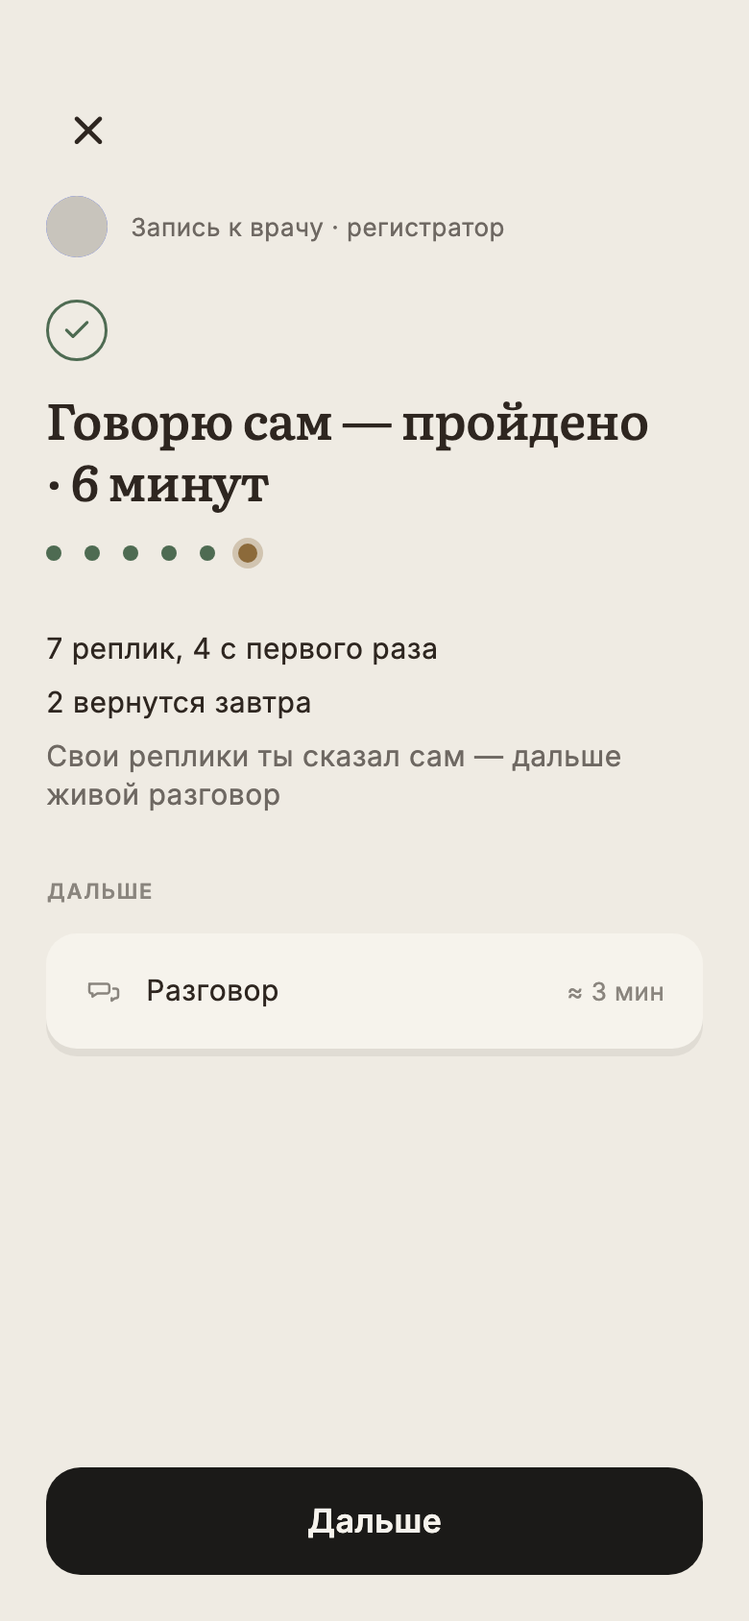
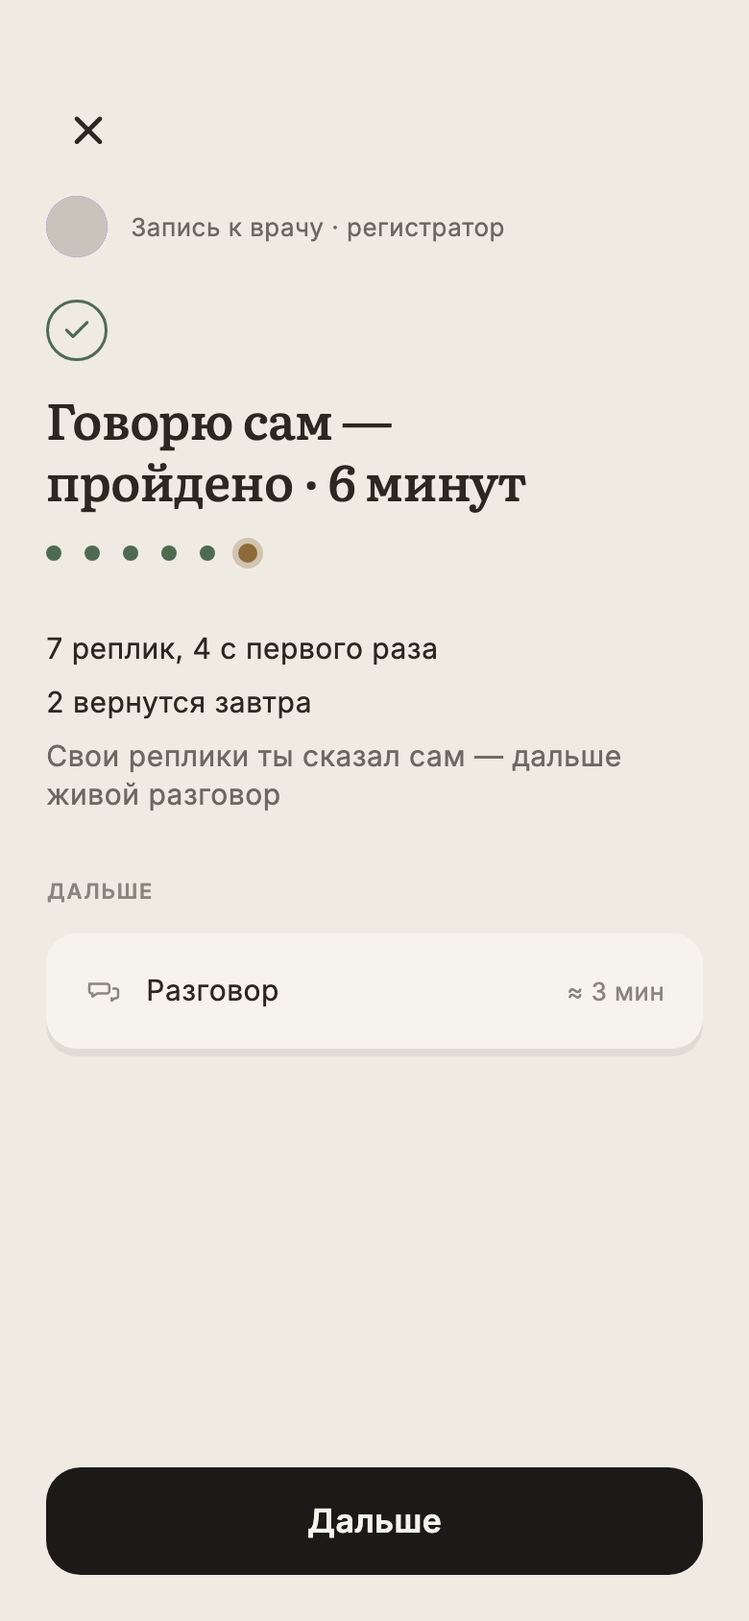
docs(plan): CLIENT-CONV-1c — приёмка третьего захода, две правки, сборка 1.0.0 (19) на телефоне
§1 «Приёмка третьего захода» (код 8629346f): хвост 30-6 неразрывен, перенос
только после тире (запасной перенос перед «·» на экране 320); полоса фото
37-5 — 64 или нет, замер высот (на 874 полосы нет: 390 — с 909, 402 — с 877/887).
§3: кадры 21, 01b (390 × 874), 01c (390 × 909).
§4 пп. 17–18 закрыты решениями архитектора.
§5: BACK-TAILS-2 влит — хвост kServerFixtures; подпись «Без подсказок» на
входе «Вспомнить» говорит про этапы, которых у репетиции нет.
§7: ворота — analyze чистый, 1763 passed; мутация 1/1.
§8: сборка 1.0.0 (19) с 8629346f — Eng Std 1.0.0 (19) на iPhone (Denis).

Changed region(s): [[0.4308, 0.2464, 0.8615, 0.3389], [0.0615, 0.2773, 0.4, 0.3389]]

diff --git a/backend2/docs/research/client-conv-1c/README.md b/backend2/docs/research/client-conv-1c/README.md
@@ -19,6 +19,10 @@
 Что сделано — §1 «Третий заход», кадры — §3 «Третий заход» (только изменённые и новые: 01, 02, 08, 08b, 21, 24, 25,
 31–33), решения и расхождения — §4 пп. 17–22, что за сервером — §5, ворота — §7. Сборка (19) — после приёмки (§8).
 
+**Приёмка третьего захода (22.09): все шесть правок приняты; две однострочные правки перед сборкой** — код и версия
+1.0.0+19 — `8629346f`: хвост 30-6 неразрывен, перенос только после тире; полоса фото 37-5 — 64 или нет (§1 «Приёмка
+третьего захода»). Кадры 21, 01b (874), 01c (909) — §3; §4 пп. 17–18 закрыты решениями; сборка 1.0.0 (19) — §8.
+
 ---
 
 ## §1. Что сделано — по пунктам наряда (код: `4841e49b`; второй заход — `cb17aeaf`; третий — `ecff0259`)
@@ -215,6 +219,31 @@
    первый этап маршрута дня; рядов нет — подсказки нет. «Слова» у дня-сцены, «Повторение» у повторения, «Вспомнить» у
    репетиции. Кадр 33 — `plan_rehearsal`, сегодня день 2 (повторение), кабинет `day-review`.
 
+### Приёмка третьего захода (22.09): две правки перед сборкой (код и версия 1.0.0+19: `8629346f`)
+
+1. **30-6: хвост «пройдено · N минут» неразрывен целиком, перенос только после тире (кадр 21).** Заголовок итога этапа
+   собирает своя строка `planSessionPassedMinutes` — «{title} · {minutes}» с неразрывными пробелами вокруг «·»; внутри
+   «N минут» неразрывный был и раньше (`planMinutesCount`); в заголовках с тире («Слушаю и отвечаю — пройдено», «Говорю
+   сам — пройдено», «Вспомнить — пройдено», ru и en) неразрывный пробел перед «—» держит тире при имени этапа. Итого у
+   заголовка, которому мало строки, единственный перенос — после тире: «Говорю сам — / пройдено · 6 минут», как кадр 31;
+   у заголовка без тире — перед хвостом («Слова / пройдены · 1 минута»). Остальные склейки «·» (бровь окна, строка
+   состояния дня, бровь входа 37-5) не тронуты. **Узкий экран:** на ширине 320 (старый SE или «Увеличенный» вид iPhone)
+   самого хвоста строке мало — «пройдены · 44 минуты» 293 точки при 272 доступных (замер: 90 из 360 сочетаний «этап ×
+   минуты 1…90»), и неразрывную цепочку движок текста режет внутри слова («минут / а»). Там точка уступает:
+   `SessionStageTitle` меряет хвост и, если он шире строки, разрешает перенос перед «·» — число остаётся при точке и
+   своём слове, слово не рвётся. На 390 это не срабатывает никогда (самый широкий хвост — 293 из 342). Тест
+   `stage_title_break_test`: на 390 строки начинаются только с начала и с хвоста (6 этапов × минуты 1, 2, 6, 13, 21, 44),
+   на 320 — перенос только по обычному пробелу и «· N минут» одной строкой; гард `nbsp_numbers_test` — строка
+   `planSessionPassedMinutes` и отсутствие « —» в заголовках, оба `.arb`.
+2. **Вход 37-5: полоса фото — 64 целиком или её нет (кадры 01, 01b, 01c).** `_RenderEntryFit._band`: полоса стоит, когда
+   ей хватает 84 точек (64 и 20 под ней), иначе её нет; сжатия до 24 больше нет. Тест «полоса фото — 64 или нет, на любой
+   высоте»: 390 × 844…960 через 4, оба заголовка — полоса только 0 или 64, переключатель над доком без прокрутки, и на
+   высоком экране она встаёт. **Замер (кадр 01 — заголовок в две строки, шесть фраз):** на 390 × 874 полосы ещё нет —
+   свободно 49 из 84; полоса встаёт с высоты 909 (390 шириной). На ширине 402 (iPhone 17 Pro) заголовок встаёт в одну
+   строку — полоса с 877 при верхнем отступе 52 и с 887 при 62, то есть на самом 402 × 874 её тоже нет (не хватает 3–13
+   точек). Кадр «01 на 874 с полосой» при правиле «64 или нет» поэтому не получается: сняты 01b — 390 × 874, как есть (без
+   полосы, воздух под переключателем), и 01c — 390 × 909, первая высота с полосой 64.
+
 ---
 
 ## §2. Живая проверка (e2e, 22.09): первый заход — сервер main без BACK-TAILS-2
@@ -396,6 +425,8 @@ flutter test test/features/plan/session/conv1c_shots_test.dart --dart-define=CON
 | файл | состояние |
 |---|---|
 | 01-37-5-entry-day | вход дня: «Поговори с регистратором», «Скажи в разговоре» — `targets` фикстуры ветки `day-doctor` |
+| 01b-37-5-entry-day-874 | тот же вход на 390 × 874: полосе фото 64 ещё мало места (49 из 84) — её нет, под переключателем воздух (приёмка третьего захода) |
+| 01c-37-5-entry-day-909 | тот же вход на 390 × 909 — первая высота, где полоса фото стоит целиком, 64 (приёмка третьего захода) |
 | 02-37-5b-entry-rehearsal | вход репетиции: «Разговор целиком · 2 сцены», «Скажи в разговоре» — фикстура `day-rehearsal` |
 | 03-37-6-speaking | роль говорит — текст открыт, волна, полоска «1 из 5» |
 | 04-37-7-your-turn | ждём тапа |
@@ -416,7 +447,7 @@ flutter test test/features/plan/session/conv1c_shots_test.dart --dart-define=CON
 | 18-37-12b-summary-rehearsal | итог репетиции — `conversation-rehearsal-ended` |
 | 19-30-6-words | 30-6 «Слова пройдены» |
 | 20-30-6-dialogue | 30-6 «Диалог пройден» |
-| 21-30-6-speak | 30-6 «Говорю сам — пройдено» |
+| 21-30-6-speak | 30-6 «Говорю сам — / пройдено · 6 минут» — перенос только после тире (приёмка третьего захода) |
 | 22-35-2-miss-chip | 35-2 не зачтено: строка судьи, «услышал», чип сразу |
 | 23-32-1-meaning-selected | 32-1 значение выбрано |
 | 24-35-3-echo-own-line | 35-3 без `partner_line` — своя реплика с переводом |
@@ -434,6 +465,11 @@ flutter test test/features/plan/session/conv1c_shots_test.dart --dart-define=CON
 фраза под кромкой, полосы фото нет (заголовок в две строки, §1 «Третий заход» п. 1); 08 и новый 08b — чип «текст»; 21 —
 заголовок 30-6 теперь переносится перед «·» («Говорю сам — пройдено / · 6 минут», §4 п. 18); 24 и 25 — «bends.» и
 «appointment?» вплотную к плашке; новые 31–33. Их zip — `client-conv-1c-shots-v3.zip` (в сообщении архитектору).
+
+**Приёмка третьего захода** (без zip, только здесь): 21 — «Говорю сам — / пройдено · 6 минут»; 01b — вход на 390 × 874,
+полосы нет; 01c — на 390 × 909, полоса 64. Кадра «01 на 874 с полосой» нет: при правиле «64 или нет» на 874 полосе не
+хватает места ни на 390, ни на 402 шириной (§1 «Приёмка третьего захода» п. 2). Остальные кадры харнесса после правок
+побайтно те же (01 и 02 на 844 полосы не имели и раньше; 31 переносился после тире и до правки).
 
 Живые (`shots/live/`, симулятор, сервер без BACK-TAILS-2): 01 вход без поля `targets` · 02 лента открывается на ответе
 (кадры записи) · 03 ответ врача, «1 из 7» · 04 чип · 05 «Sorry?» · 06 «3 из 7» · 07 лист с галками · 08 конец «5 из 7» ·
@@ -507,11 +543,17 @@ flutter test test/features/plan/session/conv1c_shots_test.dart --dart-define=CON
     полоса важнее видимой строки третьей фразы: кромка в самой строке третьей фразы, а не в её переводе, освобождает ещё
     23 — это полоса 22, тоньше нижней границы 24; чтобы полоса стояла и при двух строках заголовка, пришлось бы сжать и
     отступы блоков (24 → 16 над «Скажи в разговоре» и над «Без подсказок» — ещё 16). Решать архитектору; правка —
-    константы `_TargetsCut.into`, `_RenderEntryFit.photoMin` и отступы там же.
+    константы `_TargetsCut.into`, `_RenderEntryFit.photoMin` и отступы там же. **Решение архитектора 22.09: полоса —
+    64 целиком или её нет, без сжатия; кромка окна и отступы — как есть.** Сделано (`8629346f`, §1 «Приёмка третьего
+    захода» п. 2): на 844 у заголовка в две строки полосы нет, у высокого экрана она встаёт целиком (390 шириной — с 909).
 18. **Перенос перед «·».** Неразрывный пробел после «·» держит точку при числе, поэтому заголовок, которому не хватает
     строки, переносится перед «·»: «Говорю сам — пройдено / · 6 минут» (21; раньше было «пройдено · / 6 минут»). Если нужен
     перенос перед словом состояния («Говорю сам — / пройдено · 6 минут», как у 31) — неразрывный пробел и перед «·» в
     `planWindowJoinNumber` (одна строка `.arb` на язык); тогда «пройдено · 6 минут» не рвётся нигде. Решать архитектору.
+    **Решение архитектора 22.09: хвост «пройдено · N минут» неразрывен целиком, перенос только по тире — «Говорю сам — /
+    пройдено · 6 минут», как 31, у всех этапов с тире.** Сделано своей строкой заголовка 30-6 (`planSessionPassedMinutes`),
+    а не общей склейкой `planWindowJoinNumber`: бровь окна, строка состояния дня и бровь входа 37-5 остались как приняты
+    (`8629346f`, §1 «Приёмка третьего захода» п. 1, с запасным переносом перед «·» на экране 320).
 19. **«не начат» на входе этапа** — кадр 30-1 у текущего ряда до первой карточки пишет «не начат»; по правке 5 ряд
     говорит state сервера — «идёт», как окно дня.
 20. **Вне `.arb` число со словом не склеено:** даты `DateFormat` («19 сентября · пройден» в маршруте) и строки сервера —
@@ -556,6 +598,14 @@ flutter test test/features/plan/session/conv1c_shots_test.dart --dart-define=CON
   сам 6 реплик из 8»), `route_summary`. Клиент печатает серверный текст как пришёл, поэтому правило «число и слово не
   рвутся» (третий заход) на них не распространяется; целое решение — неразрывный пробел в этих строках на сервере (§4
   п. 20).
+- **BACK-TAILS-2 влит в main и выкачен на бой 22.09** (`5d8c37cd` … `f5e13e6c`, в том числе бэкфилл `own_line` старого
+  эха — `0f12e54b`, `1b4e61b5`). Хвост клиента из пункта «Ждёт фикстур» теперь можно закрыть: `kServerFixtures` в
+  `test/support/server_fixtures.dart` — обратно на `../backend2/docs/fixtures`, копии `test/fixtures/server/` снести. В
+  этой правке не делалось (не входило в две правки приёмки) — отдельной строкой ROADMAP-хвостов клиента.
+- **Подпись тумблера «Без подсказок» на входе «Вспомнить»** (кадр 32; приёмка третьего захода, хвостом): под тумблером
+  стоит `planSessionNoHintsSub` — «Диалог и «Говорю сам» — сразу голосом», одна строка на все входы этапов. У репетиции
+  этих этапов нет (её ряды — «Вспомнить» и «Разговор»), и подпись говорит о том, чего в дне нет. Не правилось — решать,
+  что писать на входе репетиции и повторения (своя строка по виду дня или подпись только там, где эти этапы есть).
 - **Карточки, сданные до ветки,** ветка отдаёт с сохранённым payload: у строк «Вспомнить» лишние поля (`filler_index`,
   `frame_ref`, `key`, `step`). Контракт «ровно `{ref, text_target, text_native, audio}`» верен для свежей сдачи; клиент от
   точности не зависит.
@@ -622,6 +672,12 @@ flutter test test/features/plan/session/conv1c_shots_test.dart --dart-define=CON
   `nbsp_numbers_test`; плашка со знаком без ограничения ширины (как было с `Row`) — `session_marked_text_test` «плашка
   длиннее строки» (высота 37 вместо > 51). Свой `RenderBox` переполнения не сообщает, поэтому этот тест — единственный,
   кто ловит второе: тесты 34-3 / 35-4 ловили только переполнение `Row`.
+- **Приёмка третьего захода** — ворота один раз, в конце: `flutter analyze` — **No issues found**; `flutter test` —
+  **1763 passed**, 0 failed, 0 skipped (+7: перенос заголовка 30-6 на 390 и на 320, гард 30-6 в обоих `.arb`, полоса
+  фото на высотах 844…960, кадры 01b и 01c). По ходу — только целевые: `stage_title_break_test`, `nbsp_numbers_test`,
+  `session_summary_test`, `talk_entry_test` (23 теста), харнесс conv1c (36/36). Мутация — **1/1 поймана** и откачена:
+  запасной перенос перед «·» выключен → «30-6 на 320» ловит «минут / а». Коммит `8629346f` прошёл хук ворот
+  (`flutter analyze`).
 
 ---
 
@@ -630,3 +686,17 @@ flutter test test/features/plan/session/conv1c_shots_test.dart --dart-define=CON
 1.0.0 (19) — после приёмки снимков; версия — в подвале входа этапа («сборка 1.0.0 (N)», на живых кадрах пока (18)).
 Второй заход сборку не собирал: ждёт приёмки снимков обоих заходов (`shots/`, `shots/live/01…35`).
 Третий заход — тоже нет: сборка (19) — после приёмки его кадров (§3 «Третий заход»).
+
+**Сборка 1.0.0 (19)** — после приёмки третьего захода и двух правок 22.09, канонной командой (`flutter run --release -d
+00008110-000A7CCC3492801E`, `DEVELOPER_DIR` беты Xcode 27) с `main` на **`8629346f`** — код двух правок и
+`version: 1.0.0+19` в самом коммите, дерево `mobile/` при сборке чистое; сервер боя к этому времени уже с BACK-TAILS-2
+(выкачен 22.09, `f5e13e6c`).
+
+| что | значение |
+|---|---|
+| коммит сборки | `8629346f` (над ним в `main` — `f5e13e6c` BACK-TAILS-2; код заходов 1c — `4841e49b`, `cb17aeaf`, `ecff0259`) |
+| Xcode build | 128,1 с |
+| Runner.app | 2026-09-22 14:31:55 +0300, `com.denis.engstd`, `CFBundleShortVersionString` 1.0.0, `CFBundleVersion` 19 |
+| установка | из `flutter run` по Wi-Fi упала («Could not run build/ios/iphoneos/Runner.app … Error running application on iPhone (Denis) (wireless)», как у (18)) — тот же Runner.app поставлен `xcrun devicectl device install app` |
+| на телефоне | `devicectl device info apps` — **Eng Std 1.0.0 (19)** на iPhone (Denis), iPhone 13 Pro |
+| запуск | не проверен: `devicectl device process launch` — `CoreDevice.ActionError 1` («A required XPC connection to remoteService was unavailable»); «сборка 1.0.0 (19)» — в подвале входа этапа при первом открытии |
